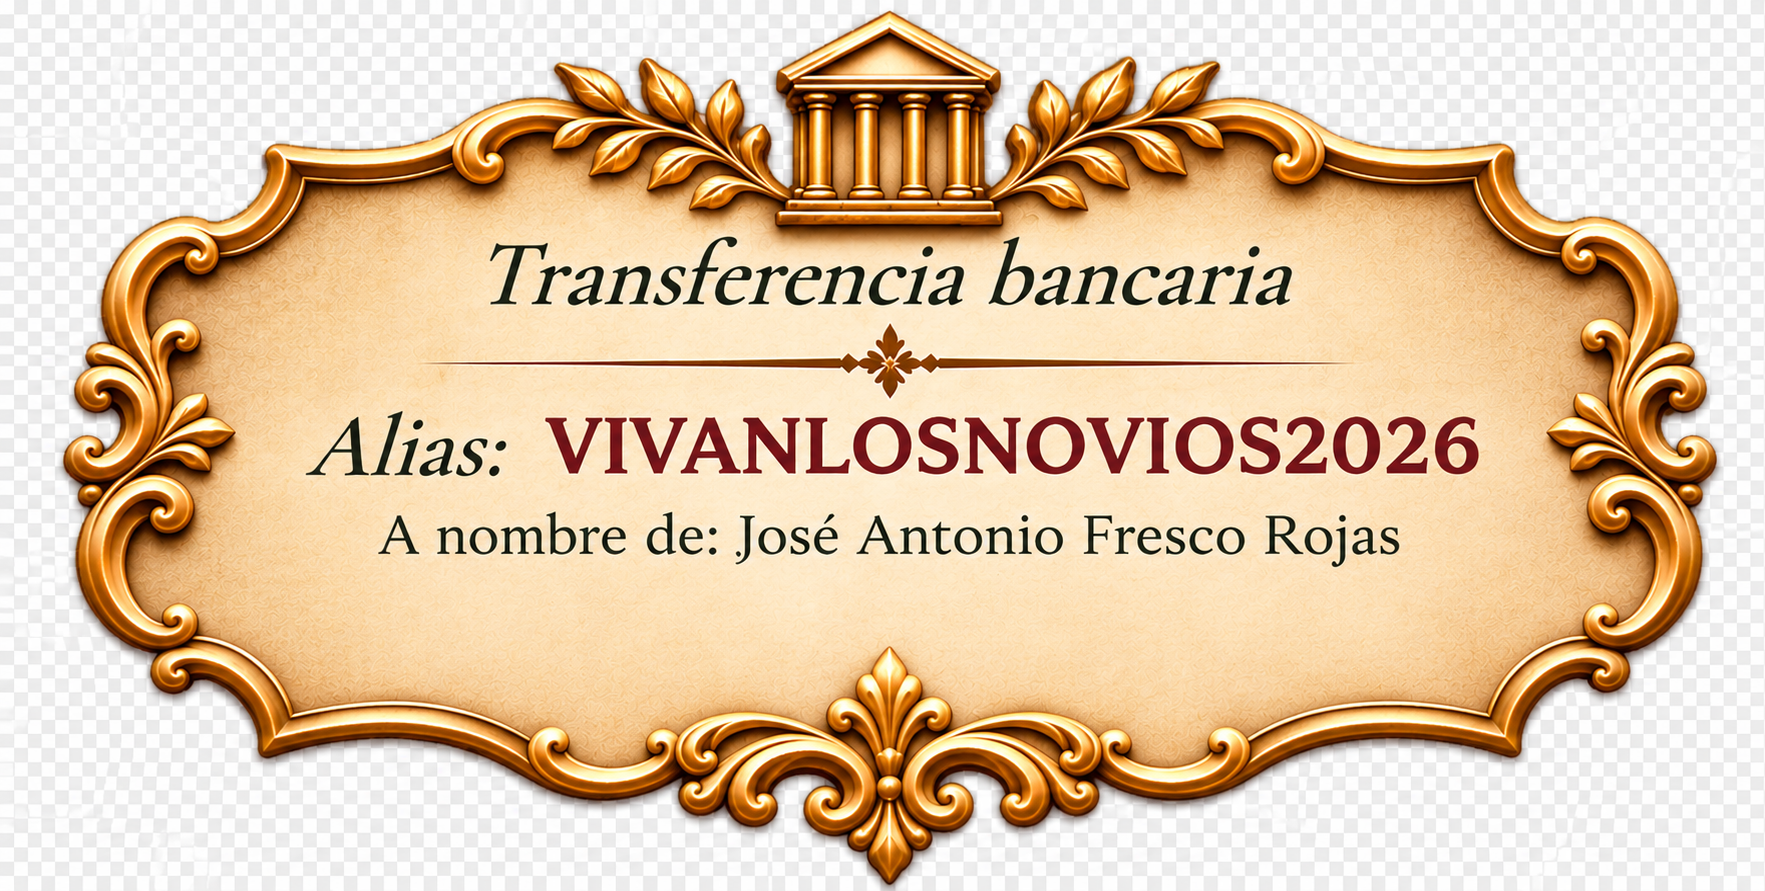
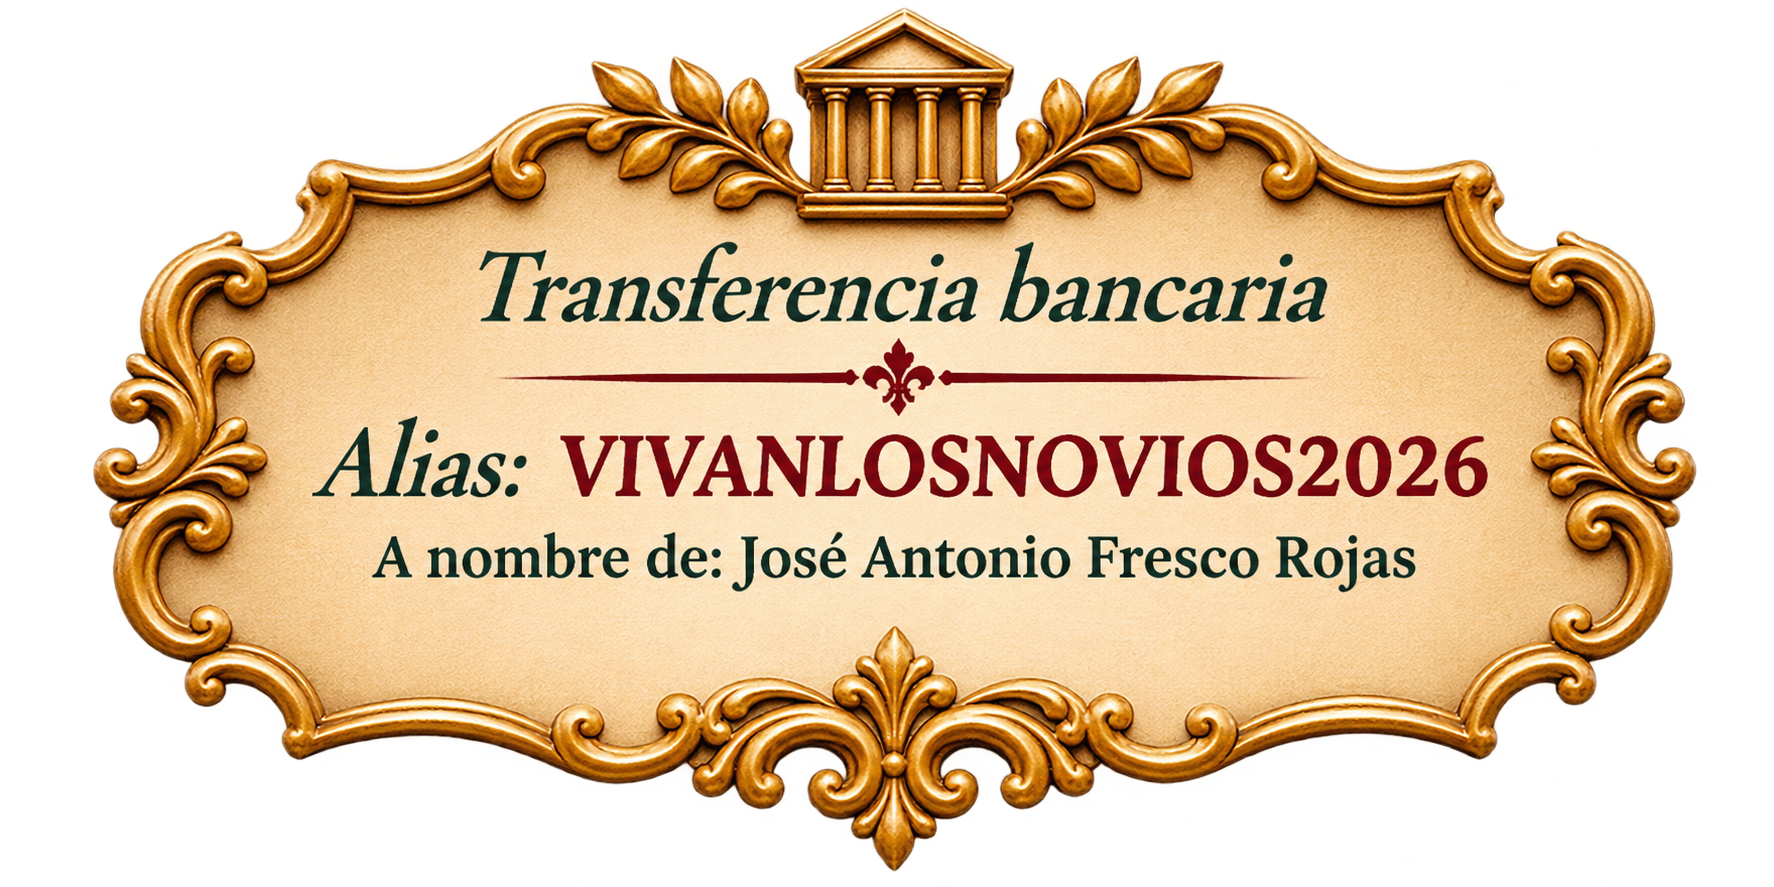
Cambios

diff --git a/index.html b/index.html
@@ -611,53 +611,64 @@
         </div>
 
 
-        <!-- 09. REGALOS -->
-        <section id="regalos" class="seccion regalos marco-informacion">
-            <div class="ornamentos-regalo" aria-hidden="true">
-                <img class="rosa-regalo rosa-regalo-superior" src="IMG/rosas-esquina-ornamental.png" alt="">
-                <img class="rosa-regalo rosa-regalo-inferior" src="IMG/rosas-esquina-ornamental.png" alt="">
-                <img class="firulete-regalo firulete-regalo-superior" src="IMG/firulete-ornamental.png" alt="">
-                <img class="firulete-regalo firulete-regalo-inferior" src="IMG/firulete-ornamental.png" alt="">
-            </div>
-            
-            <header class="encabezado-regalo">
-                <p class="etiqueta-seccion">UN REGALO ESPECIAL</p>
-                <img class="floritura-regalo" src="IMG/separador-ornamental.png" alt="" aria-hidden="true">
-            </header>
 
-            <div class="contenido-regalo">
-                <div class="regalo-presentacion">
- 
-                    <h2>Tu presencia es nuestro mejor regalo</h2>
-                    <img class="floritura-regalo floritura-regalo-corta" src="IMG/separador-ornamental.png" alt="" aria-hidden="true">
-                </div>
+<!-- 09. REGALOS -->
+<section id="regalos" class="seccion regalos marco-informacion">
 
-                <div class="detalles-regalo">
-                    <p class="mensaje-regalo">
-                        Nuestro hogar ya está lleno de todo lo que necesitamos, pero todavía tenemos muchos sueños por cumplir.
-                        Si deseás hacernos un regalo, nos encantaría que nos acompañes con una contribución para seguir construyendo juntos esta hermosa historia.<br
-                        ¡Gracias de corazón por ser parte de nuestro día!
-                    </p>
+    <div class="ornamentos-regalo" aria-hidden="true">
+        <img class="rosa-regalo rosa-regalo-superior" src="IMG/rosas-esquina-ornamental.png" alt="">
+        <img class="rosa-regalo rosa-regalo-inferior" src="IMG/rosas-esquina-ornamental.png" alt="">
+        <img class="firulete-regalo firulete-regalo-superior" src="IMG/firulete-ornamental.png" alt="">
+        <img class="firulete-regalo firulete-regalo-inferior" src="IMG/firulete-ornamental.png" alt="">
+    </div>
 
-                    <div class="opciones-regalo">
-                        <div class="opcion-regalo opcion-transferencia marco-informacion">
-                            <img class="imagen-transferencia"
-                                src="IMG/Etiqueta vintage de transferencia bancaria.png"
-                                alt="Transferencia bancaria. Alias VIVANLOSNOVIOS2026. A nombre de José Antonio Fresco Rojas.">
-                            <span id="alias-regalo" hidden>VIVANLOSNOVIOS2026</span>
-                            <button id="copiar-alias" class="boton-copiar-alias"
-                                type="button" aria-label="Copiar alias">
-                                Copiar alias
-                            </button>
-                        </div>
-                    </div>
+    <header class="encabezado-regalo">
+        <p class="etiqueta-seccion">UN REGALO ESPECIAL</p>
+        <img class="floritura-regalo" src="IMG/separador-ornamental.png" alt="" aria-hidden="true">
+    </header>
 
-                    <p class="regalo-gracias">
-                        Lo más importante es compartir este día con vos.
-                    </p>
-                </div>
-            </div>
-        </section>
+    <div class="contenido-regalo">
+
+        <div class="regalo-presentacion">
+            <h2>Tu presencia es nuestro mejor regalo</h2>
+            <img class="floritura-regalo floritura-regalo-corta"
+                src="IMG/separador-ornamental.png" alt="" aria-hidden="true">
+        </div>
+
+        <div class="detalles-regalo">
+
+            <p class="mensaje-regalo">
+                Si deseás hacernos un presente, podés hacerlo a través de una transferencia bancaria.
+            </p>
+
+<div class="opcion-regalo opcion-transferencia marco-informacion">
+
+    <span class="texto-transferencia">
+        Transferencia bancaria
+
+        <span class="datos-regalo">
+            Alias: <span id="alias-regalo">VIVANLOSNOVIOS2026</span></br>
+            A nombre de: José Antonio Fresco Rojas
+        </span>
+    </span>
+
+    <button id="copiar-alias"
+        class="boton-copiar-alias"
+        type="button"
+        aria-label="Copiar alias">
+        Copiar alias
+    </button>
+
+</div>
+
+            <p class="regalo-gracias">
+                Lo más importante es compartir este día con vos.
+            </p>
+
+        </div>
+    </div>
+</section>
+
 
 
         <div class="separador-lunar" aria-hidden="true">

diff --git a/CSS/style.css b/CSS/style.css
@@ -111,8 +111,7 @@ img {
 .marco-informacion {
     position: relative;
     isolation: isolate;
-    border: 1px solid rgba(155, 122, 72, 0.55);
-    box-shadow: var(--sombra);
+
 }
 
 .contador-item.marco-informacion,
@@ -2679,10 +2678,6 @@ background:
 }
 
 /* Los marcos conservan el fondo de su sección y solo añaden vidrio */
-.marco-informacion {
-    backdrop-filter: blur(var(--desenfoque-secciones));
-    -webkit-backdrop-filter: blur(var(--desenfoque-secciones));
-}
 
 /* =========================================
    CEREMONIAS VICTORIANAS
@@ -3668,3 +3663,62 @@ background:
     }
 }
 
+
+/* VIDEO DE APERTURA A PANTALLA COMPLETA EN CELULARES */
+@media (max-width: 700px) {
+
+    #intro-cinematica {
+        position: fixed;
+        inset: 0;
+        width: 100%;
+        height: 100vh;
+        height: 100dvh;
+        min-height: 100dvh;
+        margin: 0;
+        padding: 0;
+        overflow: hidden;
+        background: #000;
+        z-index: 10000;
+    }
+
+    #video-apertura {
+        position: absolute;
+        inset: 0;
+        display: block;
+        width: 100%;
+        height: 100%;
+        max-width: none;
+        object-fit: cover;
+        object-position: center;
+        border: 0;
+        border-radius: 0;
+        margin: 0;
+    }
+}
+
+.boton-copiar-alias {
+    position: relative;
+    top: 5px;
+}
+.opcion-transferencia {
+    display: flex;
+    flex-direction: column;
+    align-items: center;
+    justify-content: center;
+    text-align: center;
+}
+
+.texto-transferencia,
+.datos-regalo {
+    display: block;
+    width: 100%;
+    text-align: center;
+}
+
+.datos-regalo {
+    margin-top: 10px;
+}
+
+.boton-copiar-alias {
+    margin: 15px auto 0;
+}

diff --git a/CSS/experience.css b/CSS/experience.css
@@ -2553,11 +2553,6 @@ body.intro-activa .cuervo-volando-tarjeta {
     border-radius: 12px;
 }
 
-.invitacion #regalos,
-.invitacion #confirmacion,
-.invitacion .opcion-transferencia {
-    background: rgba(245, 235, 216, var(--transparencia-secciones, .82)) !important;
-}
 
 .invitacion #regalos {
     position: relative;
@@ -2729,13 +2724,10 @@ body.intro-activa .cuervo-volando-tarjeta {
     overflow: hidden;
     border: 0;
     border-radius: 0;
-    background: transparent !important;
-    box-shadow: none;
 }
 
 .invitacion #regalos .opcion-transferencia:hover {
-    transform: none;
-    box-shadow: none;
+   
 }
 
 .invitacion #regalos .imagen-transferencia {
